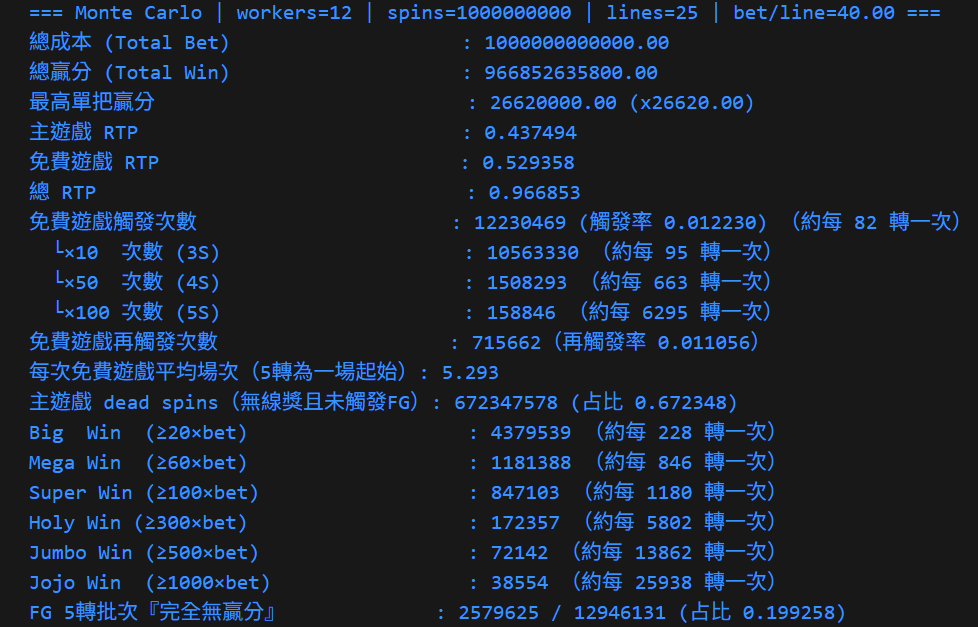
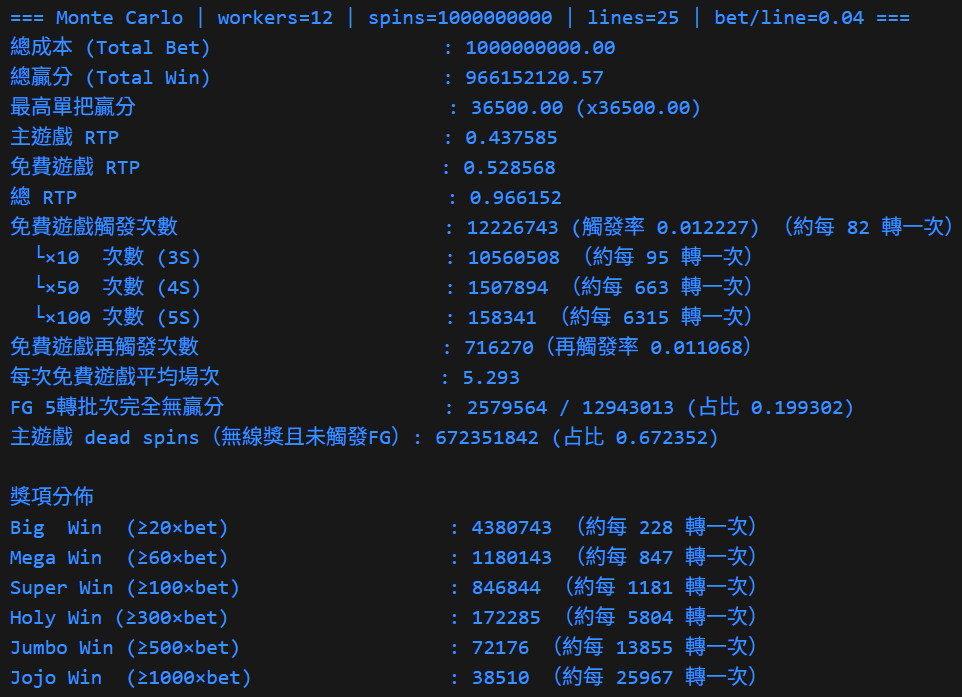
大獎詳細分層

Changed region(s): [[0.0, 0.0, 0.9667, 1.0], [0.8108, 0.303, 0.9979, 0.3636]]

diff --git a/slot10_50_100.go b/slot10_50_100.go
@@ -72,7 +72,7 @@ import (
  **************/
 var (
 	numSpins   int64   = 1000000000       // 轉數(預設為10億轉)
-	betPerLine float64 = 40.0             // 線注
+	betPerLine float64 = 0.04             // 線注
 	numWorkers         = runtime.NumCPU() // total threads
 
 	excelRTP float64 = 0.965984 // Excel 試算之 RTP，不比較則設負值
@@ -353,12 +353,13 @@ type Stats struct {
 	trigX50  int64
 	trigX100 int64
 
-	bigWins   int64 // ≥20×bet
-	megaWins  int64 // ≥60×bet
-	superWins int64 // ≥100×bet
-	holyWins  int64 // ≥300×bet
-	jumboWins int64 // ≥500×bet
-	jojoWins  int64 // ≥1000×bet
+	bigWins   int64     // ≥20×bet
+	megaWins  int64     // ≥60×bet
+	superWins int64     // ≥100×bet
+	holyWins  int64     // ≥300×bet
+	jumboWins int64     // ≥500×bet
+	jojoWins  int64     // ≥1000×bet
+	hiWinBins [19]int64 // ≥1000×bet 詳細
 
 	fgZeroBatches  int64
 	fgTotalBatches int64
@@ -369,6 +370,10 @@ type Stats struct {
 	rtpSum   float64
 	rtpSumSq float64
 	nSpins   int64
+}
+
+var highBinEdges = []float64{
+	1000, 2000, 3000, 4000, 5000, 6000, 7000, 8000, 9000, 10000, 11000, 12000, 13000, 14000, 15000, 20000, 25000, 30000, 40000,
 }
 
 /**************
@@ -465,6 +470,17 @@ func worker(_ int, spins int64, out *Stats, seed int64) {
 			local.bigWins++
 		}
 
+		//x1000 以上更細的互斥分層
+		if ratio >= highBinEdges[0] {
+			// 從最大門檻往回找，找到第一個符合 ratio >= edge 的 bin
+			for i := len(highBinEdges) - 1; i >= 0; i-- {
+				if ratio >= highBinEdges[i] {
+					local.hiWinBins[i]++
+					break
+				}
+			}
+		}
+
 		// per-spin RTP 的一階、二階統計
 		local.rtpSum += ratio
 		local.rtpSumSq += ratio * ratio
@@ -555,6 +571,10 @@ func main() {
 		total.jumboWins += s.jumboWins
 		total.jojoWins += s.jojoWins
 
+		for i := range total.hiWinBins {
+			total.hiWinBins[i] += s.hiWinBins[i]
+		}
+
 		total.fgZeroBatches += s.fgZeroBatches
 		total.fgTotalBatches += s.fgTotalBatches
 
@@ -580,7 +600,7 @@ func main() {
 	fmt.Printf("總 RTP                                : %.6f\n", rtpTotal)
 
 	// 觸發與再觸發
-	fmt.Printf("免費遊戲觸發次數                      : %d (觸發率 %.6f) %s\n",
+	fmt.Printf("免費遊戲觸發次數                       : %d (觸發率 %.6f) %s\n",
 		total.triggerCount, float64(total.triggerCount)/float64(numSpins), everyStr(numSpins, total.triggerCount))
 	fmt.Printf("  └×10  次數 (3S)                     : %d %s\n", total.trigX10, everyStr(numSpins, total.trigX10))
 	fmt.Printf("  └×50  次數 (4S)                     : %d %s\n", total.trigX50, everyStr(numSpins, total.trigX50))
@@ -590,14 +610,24 @@ func main() {
 	if total.triggerCount > 0 {
 		retriRate = float64(total.retriggerCount) / float64(total.totalFGSpins)
 	}
-	fmt.Printf("免費遊戲再觸發次數                    : %d（再觸發率 %.6f）\n", total.retriggerCount, retriRate)
+	fmt.Printf("免費遊戲再觸發次數                     : %d（再觸發率 %.6f）\n", total.retriggerCount, retriRate)
 
 	if total.triggerCount > 0 {
-		fmt.Printf("每次免費遊戲平均場次（5轉為一場起始）: %.3f\n", float64(total.totalFGSpins)/float64(total.triggerCount))
+		fmt.Printf("每次免費遊戲平均場次                   : %.3f\n", float64(total.totalFGSpins)/float64(total.triggerCount))
 	}
 
-	// 命中與大獎頻率
+	// FG 5 轉批次全空
+	if total.fgTotalBatches > 0 {
+		fmt.Printf("FG 5轉批次完全無贏分                   : %d / %d (占比 %.6f)\n",
+			total.fgZeroBatches, total.fgTotalBatches,
+			float64(total.fgZeroBatches)/float64(total.fgTotalBatches))
+	} else {
+		fmt.Printf("FG 5轉批次完全無贏分                   : 0 / 0 (占比 0)\n")
+	}
+
 	fmt.Printf("主遊戲 dead spins（無線獎且未觸發FG）: %d (占比 %.6f)\n", total.deadSpins, float64(total.deadSpins)/float64(numSpins))
+
+	fmt.Printf("\n獎項分佈\n")
 	fmt.Printf("Big  Win  (≥20×bet)                   : %d %s\n", total.bigWins, everyStr(numSpins, total.bigWins))
 	fmt.Printf("Mega Win  (≥60×bet)                   : %d %s\n", total.megaWins, everyStr(numSpins, total.megaWins))
 	fmt.Printf("Super Win (≥100×bet)                  : %d %s\n", total.superWins, everyStr(numSpins, total.superWins))
@@ -605,13 +635,11 @@ func main() {
 	fmt.Printf("Jumbo Win (≥500×bet)                  : %d %s\n", total.jumboWins, everyStr(numSpins, total.jumboWins))
 	fmt.Printf("Jojo Win  (≥1000×bet)                 : %d %s\n", total.jojoWins, everyStr(numSpins, total.jojoWins))
 
-	// FG 5 轉批次全空
-	if total.fgTotalBatches > 0 {
-		fmt.Printf("FG 5轉批次『完全無贏分』             : %d / %d (占比 %.6f)\n",
-			total.fgZeroBatches, total.fgTotalBatches,
-			float64(total.fgZeroBatches)/float64(total.fgTotalBatches))
-	} else {
-		fmt.Printf("FG 5轉批次『完全無贏分』             : 0 / 0 (占比 0)\n")
+	fmt.Printf("\n≥1000倍大獎項細分（互斥）\n")
+	for i, edge := range highBinEdges {
+		cnt := total.hiWinBins[i]
+		fmt.Printf("≥%-5d×bet    : %d %s\n",
+			int(edge), cnt, everyStr(numSpins, cnt))
 	}
 
 	// 統計推論（以 per-spin RTP 為隨機變數）
@@ -631,13 +659,13 @@ func main() {
 	fmt.Printf("樣本均值 mean(RTP)                    : %.6f\n", mean)
 	fmt.Printf("樣本方差 var(RTP)                     : %.6f\n", variance)
 	fmt.Printf("標準誤差 SE                           : %.6f\n", se)
-	fmt.Printf("95%% 信賴區間                         : [%.6f, %.6f]\n", lo, hi)
+	fmt.Printf("95%% 信賴區間                          : [%.6f, %.6f]\n", lo, hi)
 
 	if excelRTP >= 0 {
 		z := (excelRTP - mean) / se
 		inCI := (excelRTP >= lo && excelRTP <= hi)
 		fmt.Printf("Excel RTP                             : %.6f\n", excelRTP)
-		fmt.Printf("Excel 與樣本均值差的 z 分數           : %.2f\n", z)
+		fmt.Printf("Excel 與樣本均值差的 z 分數            : %.2f\n", z)
 		if inCI {
 			fmt.Printf("結論：Excel 值落在本次 95%% CI 之內（可視為誤差內）。\n")
 		} else {

diff --git a/README.md b/README.md
@@ -21,15 +21,20 @@
 - .\slot10_50_100.exe 或 go run .\slot10_50_100.go
 
 ## 附註
-- 本專案中之.go檔無外部依賴，迅速試跑可直接貼進VScode/VS或其他編譯軟體試試
+- 本專案中之.go檔無外部依賴，迅速試跑可直接貼進VScode/VS或其他編譯軟體測試
 
 ## 模擬器輸出示意圖
 <p align="center">
-  <img src="image/10_50_100Sim.png" width="720" alt="模擬輸出截圖">
+  <img src="image/10_50_100Sim.png" width="700" alt="模擬輸出截圖">
   <br><sub>RTP、獎項分佈、峰值摘要等</sub>
 </p>
 
 <p align="center">
-  <img src="image/10_50_100Stat.png"  width="720" alt="模擬輸出截圖">
+  <img src="image/10_50_100Win.png" width="300" alt="模擬輸出截圖">
+  <br><sub>大獎詳細分層</sub>
+</p>
+
+<p align="center">
+  <img src="image/10_50_100Stat.png"  width="400" alt="模擬輸出截圖">
   <br><sub>與Excel試算之結果驗證</sub>
 </p>
